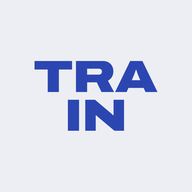
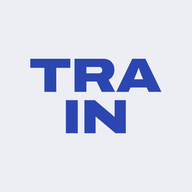
Icona: scritta più grande (circa +10%), allineata alle app gemelle

diff --git a/sw.js b/sw.js
@@ -1,6 +1,6 @@
 /* TRAIN · service worker: tiene una copia dell'app sul telefono, così si apre anche senza rete.
    I dati non passano da qui: li gestisce la pagina. Quando cambia l'app, alzare VERSION. */
-const VERSION="train-v8";
+const VERSION="train-v9";
 const CORE=["./","index.html","manifest.webmanifest","icons/apple-touch-icon.png","icons/icon-192.png","icons/icon-512.png","icons/icon-maskable-512.png"];
 
 self.addEventListener("install",e=>{e.waitUntil(caches.open(VERSION).then(c=>c.addAll(CORE)).then(()=>self.skipWaiting()));});
